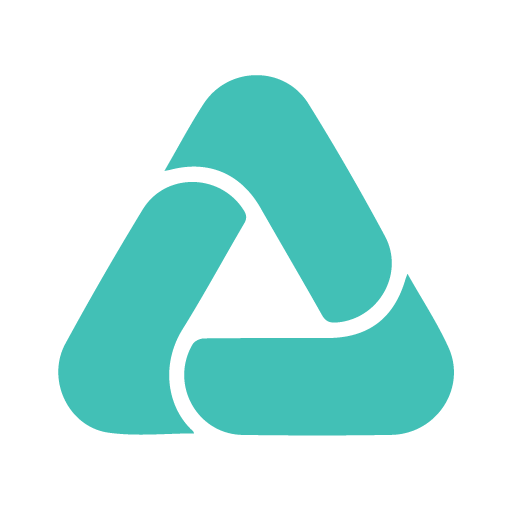
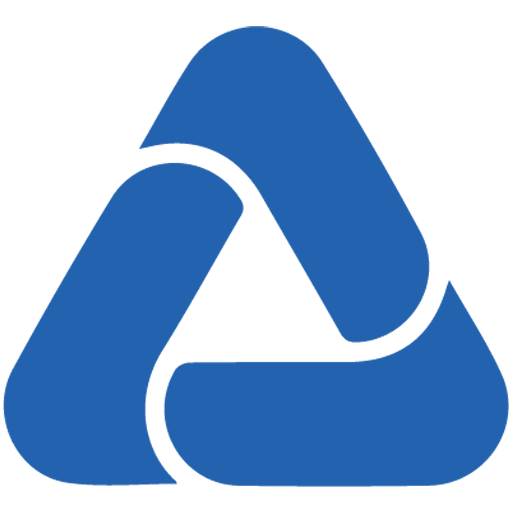
add new splash

diff --git a/lib/view/new_splash.dart b/lib/view/new_splash.dart
@@ -1,4 +1,5 @@
 import 'package:flutter/material.dart';
+import 'package:loading_indicator/loading_indicator.dart';
 
 void main() {
   runApp(NewSplash());
@@ -26,7 +27,8 @@ class _NewSplashState extends State<NewSplash> {
               children: [
                 Image(
                   image: AssetImage('assets/icon_app_512.png'),
-                  height: 170,
+                  height: 160,
+                  color: Color(0xFF42C0B6),
                 ),
                 Image(
                   image: AssetImage('assets/azota-logo-text.png'),
@@ -43,13 +45,18 @@ class _NewSplashState extends State<NewSplash> {
                   padding: EdgeInsets.only(right: 0),
                   child: Text(
                     'giao bài tập',
-                    textAlign: TextAlign.center,
                     style: TextStyle(fontSize: 16),
                   ),
                 ),
               ],
             ),
-            CircularProgressIndicator(),
+            SizedBox(
+              height: 70,
+              child: LoadingIndicator(
+                indicatorType: Indicator.ballClipRotatePulse,
+                color: Color(0xFF42C0B6),
+              ),
+            ),
             Container(
               child: Column(
                 children: [
